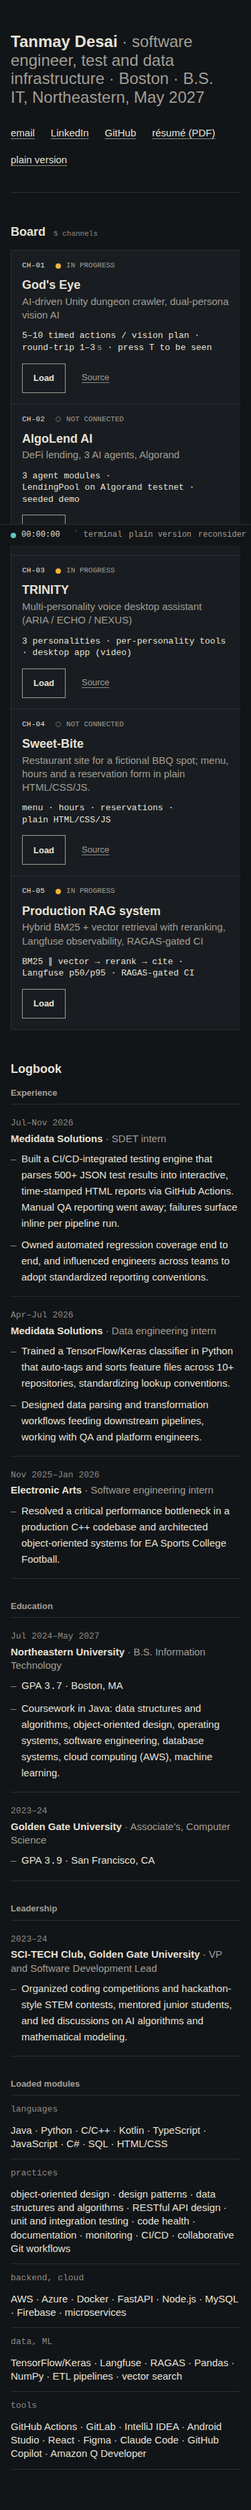
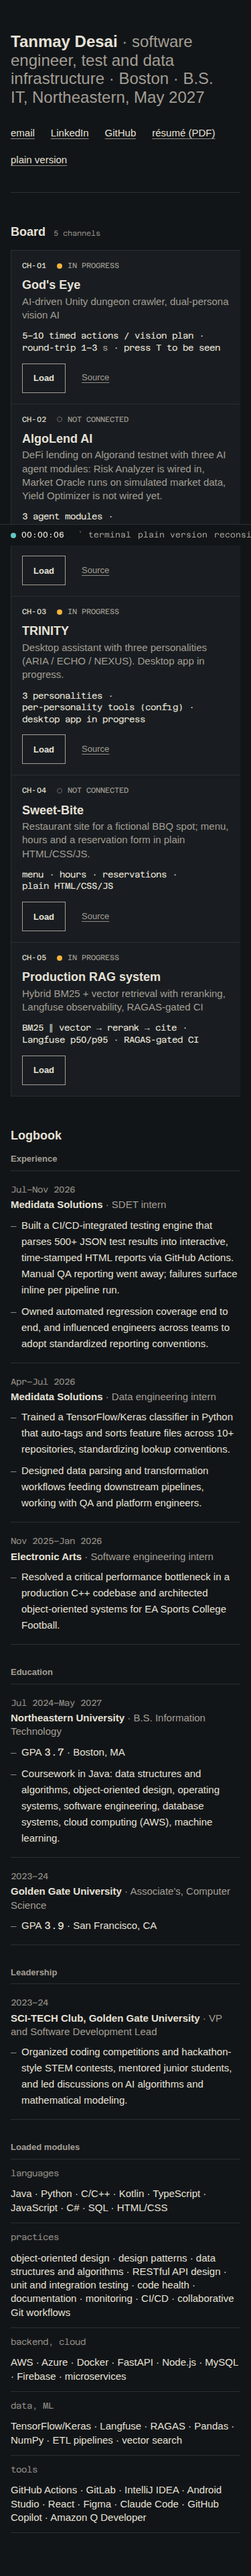
construct: TRINITY readout per DESIGN.md §5.3, merge lead + DESIGN v1.1, refresh shots
Claude-Session: https://claude.ai/code/session_01GKK88ZJrEzVc6W5F9hQVyW

diff --git a/red/board.js b/red/board.js
@@ -7,11 +7,11 @@ const board = document.getElementById('board');
 const T = ' '; // thin space before units
 const u = s => `<span class="u">${s}</span>`;
 
-// DESIGN.md §5 board readouts (AlgoLend + TRINITY amended 2026-10-04). True facts only.
+// DESIGN.md §5 board readouts (v1.1). True facts only.
 const READOUT = {
   'gods-eye': `5–10 timed actions / vision plan · round-trip 1–3${T}${u('s')} · press T to be seen`,
   'algolend': '3 agent modules · LendingPool on Algorand testnet · seeded demo',
-  'trinity': '3 personalities · per-personality tools · desktop app (video)',
+  'trinity': '3 personalities · per-personality tools (config) · desktop app in progress',
   'sweet-bite': 'menu · hours · reservations · plain HTML/CSS/JS',
   'rag': 'BM25 ∥ vector → rerank → cite · Langfuse p50/p95 · RAGAS-gated CI',
 };

diff --git a/.agents/handoff/construct.md b/.agents/handoff/construct.md
@@ -13,7 +13,8 @@ eggs (§4.6), exactly 2:
 - white rabbit: `follow white rabbit` / `knock knock` → CH-00 · UNLISTED at the top of the board (origin: SCI-TECH VP + Golden Gate Associate's). `ls -a programs` lists it dimmed. Never in help, completion or suggestions. Off-board it links to /red#ch-00
 
 lamp mapping (§4.2): live → LIVE (or RECORDED for treatment recorded-demo); not live with a `launch` subdomain → NOT CONNECTED; else IN PROGRESS
-readouts: DESIGN §5, with the AlgoLend and TRINITY amendments from the lead brief (TRINITY: "3 personalities · per-personality tools · desktop app (video)", which differs from DESIGN.md §5.3's text. Artdirector: please sync §5.3). No "sub-second", no AlgoLend numbers.
+readouts: DESIGN.md §5 verbatim (TRINITY per lead correction: "3 personalities · per-personality tools (config) · desktop app in progress"). No "sub-second", no AlgoLend numbers.
+Motion API v1.1 caller rule: Load buttons call loadProgram only on unmodified primary clicks; modified and middle clicks fall through to the href.
 
 swap to real motion when agent/motion merges: replace '/construct/_stub/motion.js' with '/shared/motion/index.js' in construct/shell.js and red/board.js, the /construct/_stub/motion.css link in red/index.html with /shared/motion/motion.css, then delete construct/_stub/.
 
